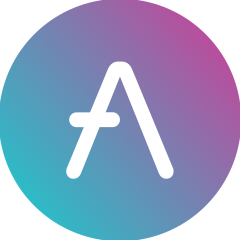
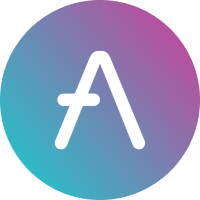
Adjusted shadow borders

diff --git a/src/styles/index.css b/src/styles/index.css
@@ -409,6 +409,8 @@ nav ul li a:hover {
 
 .token img {
   height: 50px;
+  box-shadow: 2px 2px 5px rgba(0, 0, 0, 0.3);
+  border-radius: 50%; /* Ensures the image is circular */
 }
 
 .token .left-group {
